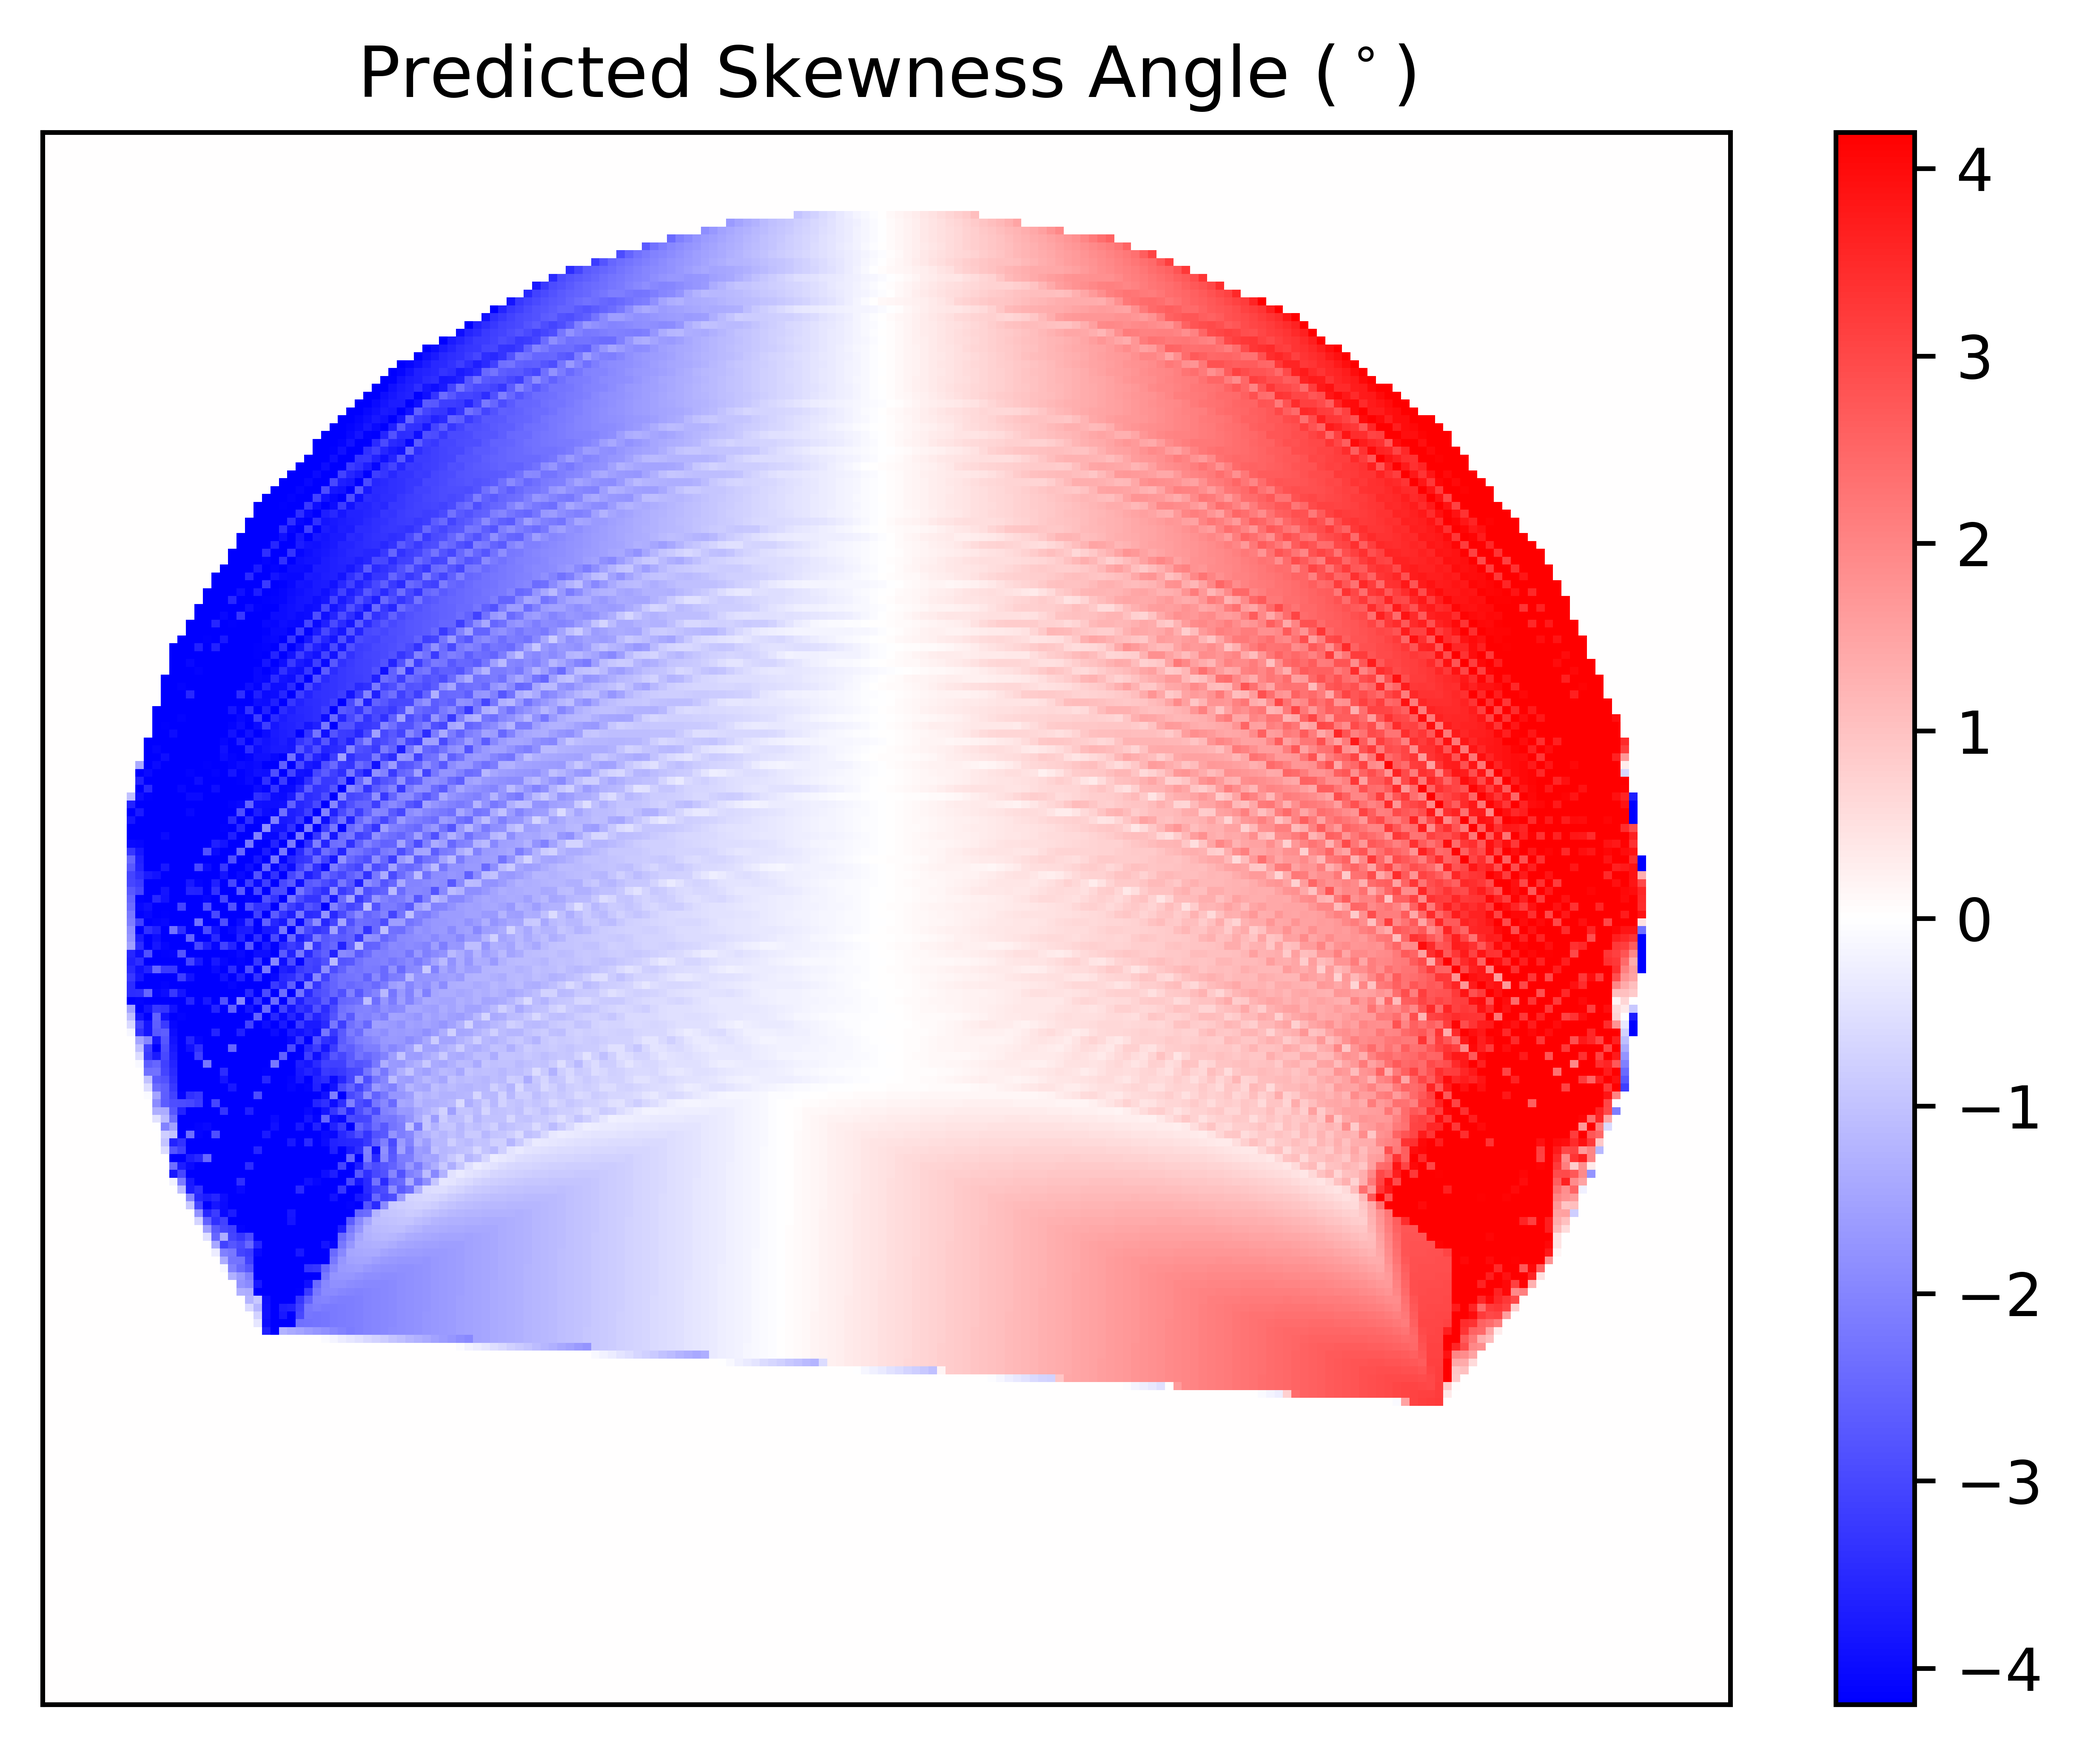
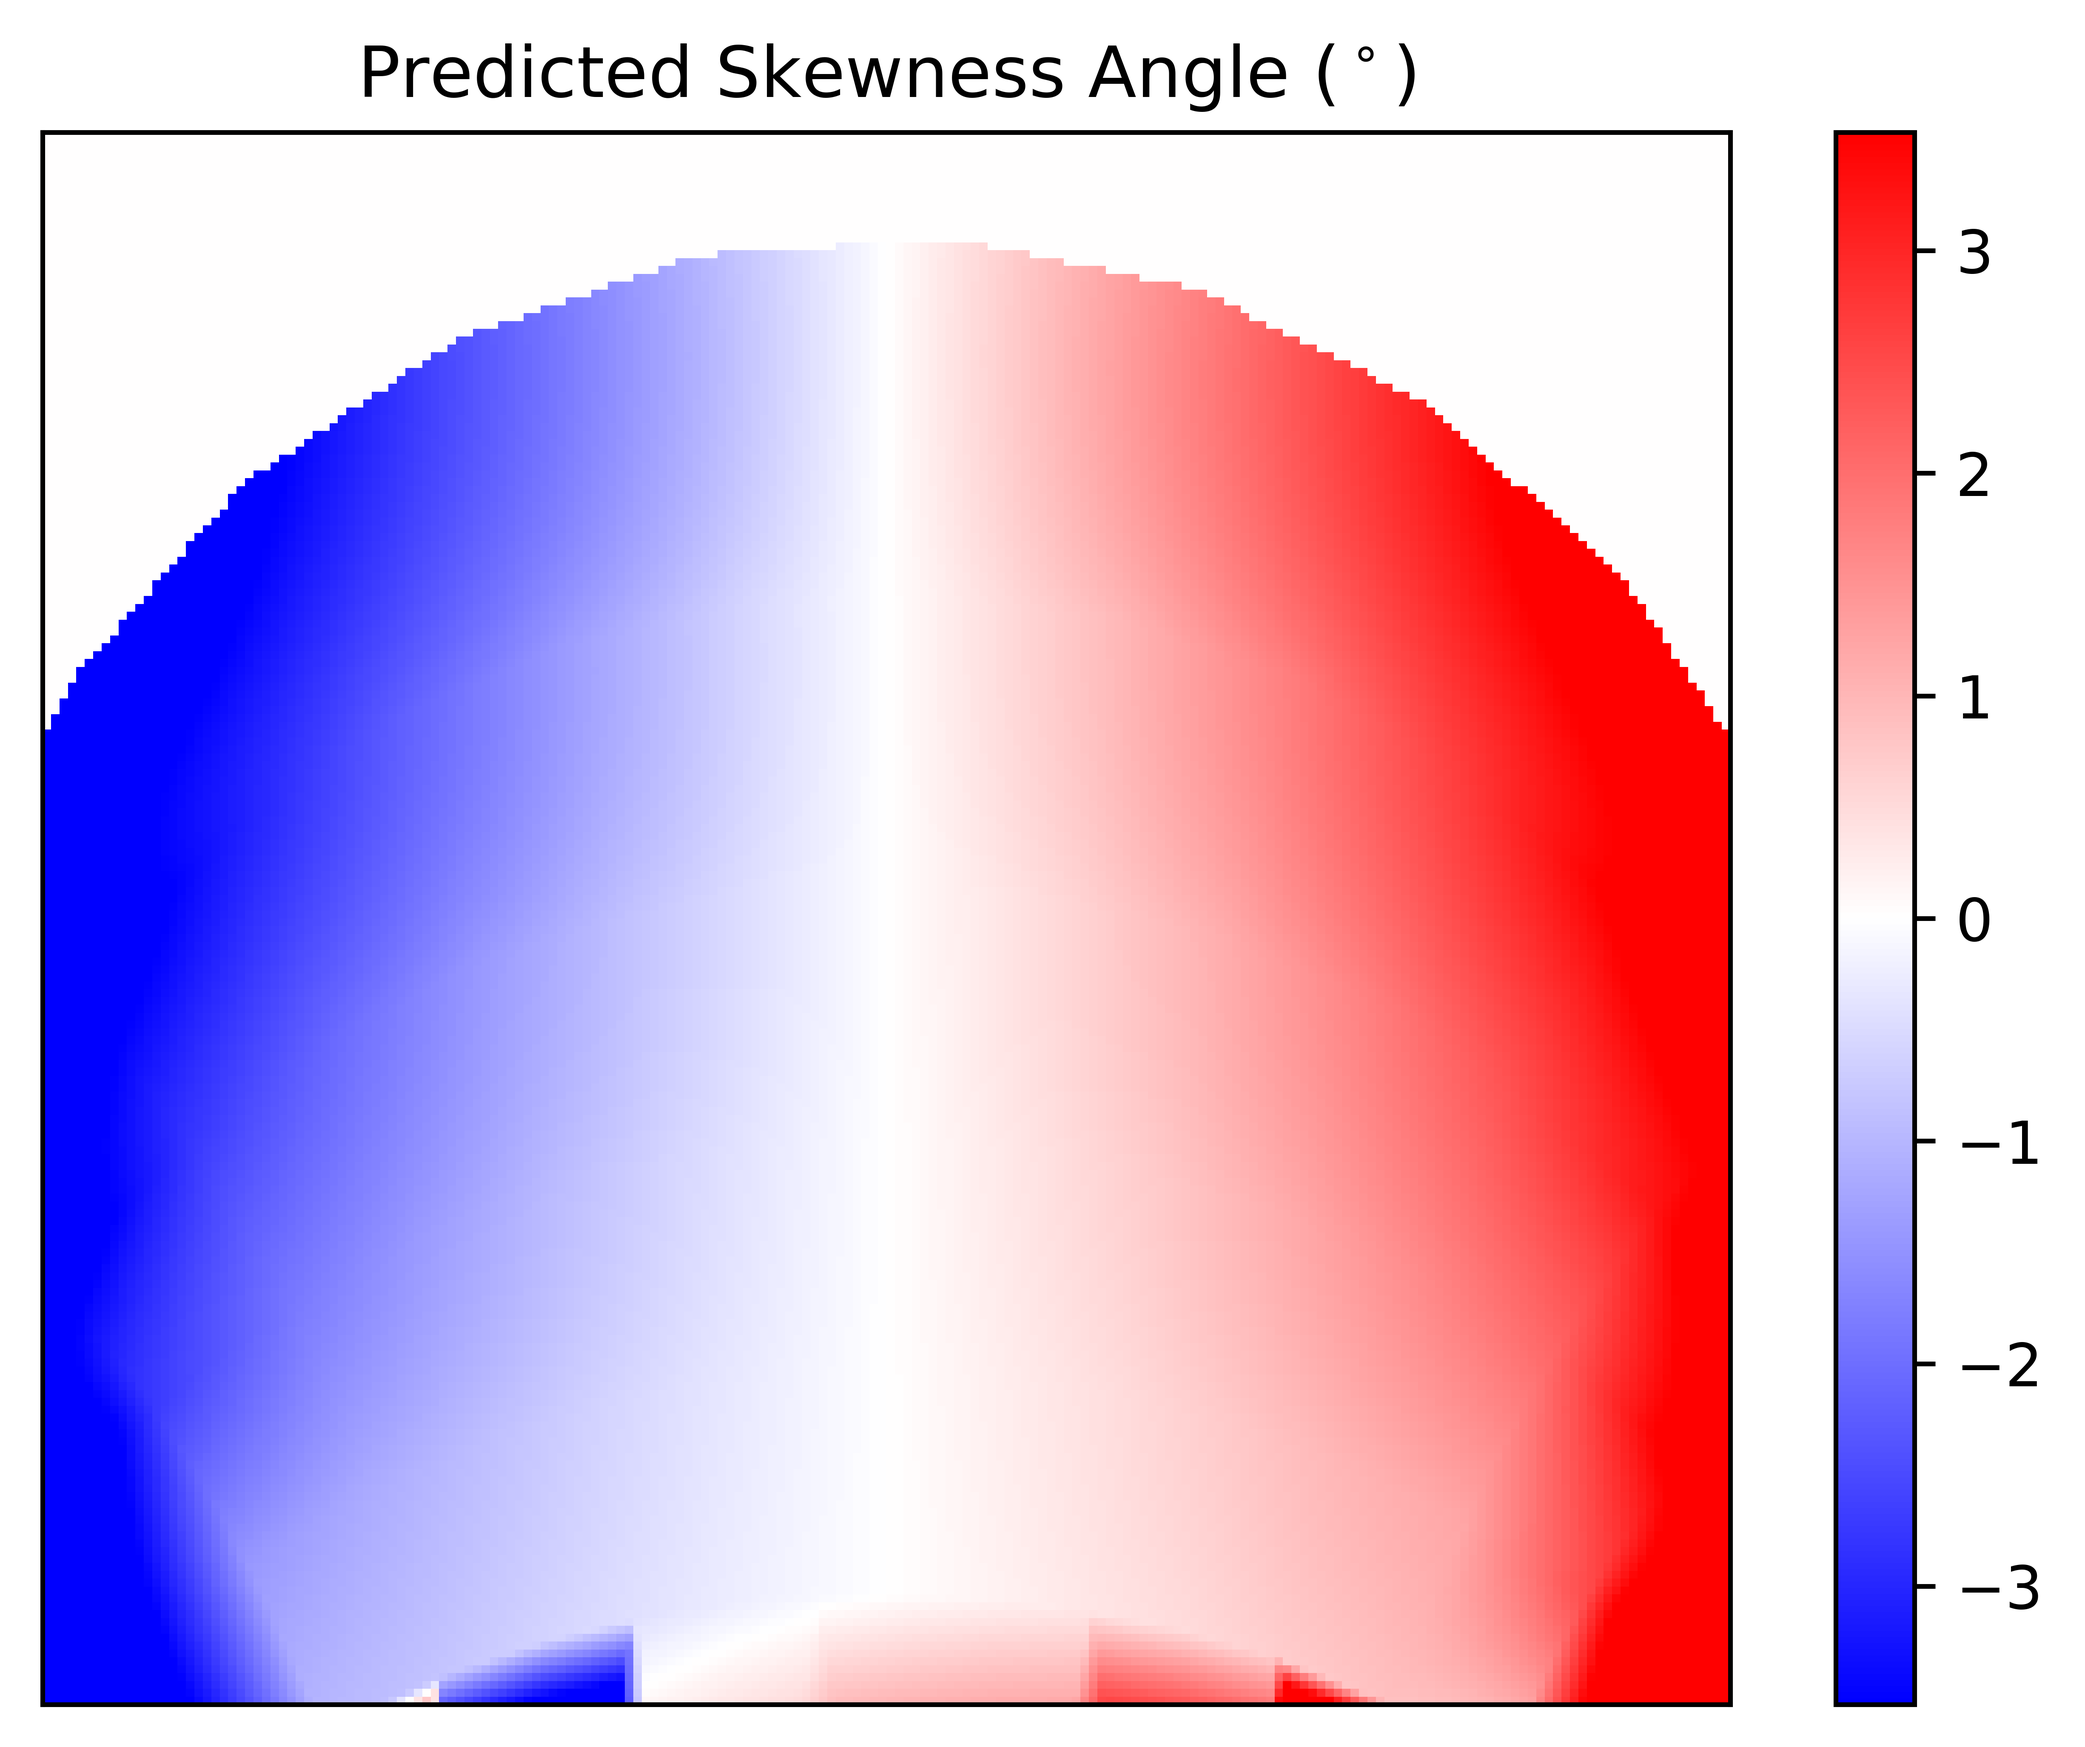
alright we have working chirality plots I found the issue

diff --git a/scripts/chirality_map_smoothed.py b/scripts/chirality_map_smoothed.py
@@ -78,7 +78,7 @@ def resample_all_curves(all_xs, all_ys, all_thetas, num=50):
         new_thetas.append(thr)
     return new_xs, new_ys, new_thetas
 
-all_xs, all_ys, all_thetas = resample_all_curves(all_xs, all_ys, all_thetas, num=20)
+# all_xs, all_ys, all_thetas = resample_all_curves(all_xs, all_ys, all_thetas, num=50)
 
 def get_bounds(xs, ys, extra_factor = .1):
     # Run the main guy to do main guy things
@@ -94,7 +94,7 @@ def get_bounds(xs, ys, extra_factor = .1):
 
     return ((min_x, max_x), (min_y, max_y))
 
-def to_spline_set(ts, xs, ys):
+def to_spline_set_old(ts, xs, ys):
     # Let's get the number we want
     N = len(xs[0])
 
@@ -105,16 +105,129 @@ def to_spline_set(ts, xs, ys):
         x_vals = [xs[l][ind] for l in range(len(ts))]
         y_vals = [ys[l][ind] for l in range(len(ts))]
 
-        # x_spl = CubicSpline(ts, x_vals, bc_type='natural')
-        # y_spl = CubicSpline(ts, y_vals, bc_type='natural')
+        x_spl = CubicSpline(ts, x_vals, bc_type='natural')
+        y_spl = CubicSpline(ts, y_vals, bc_type='natural')
         
         # Let's make these splines a bit more robust
-        x_spl = Akima1DInterpolator(ts, x_vals)
-        y_spl = Akima1DInterpolator(ts, y_vals)
+        # x_spl = Akima1DInterpolator(ts, x_vals)
+        # y_spl = Akima1DInterpolator(ts, y_vals)
 
         x_splines.append(x_spl), y_splines.append(y_spl)
 
     return x_splines, y_splines
+
+def to_spline_set(ts, xs, ys, n_intervals=5, smooth_fallback=1e-6):
+    """
+    Drop-in replacement for to_spline_set() that does *spline regression* instead of
+    exact interpolation, to stabilize x', y', x'', y''.
+
+    Fits cubic least-squares splines with a small fixed knot set:
+        scipy.interpolate.LSQUnivariateSpline
+
+    Parameters
+    ----------
+    ts : (T,) array-like
+        Times (must be strictly increasing for the spline routines).
+    xs, ys : list length T, each entry array-like length N
+        Your data layout: xs[t_ind][s_ind], ys[t_ind][s_ind].
+    n_intervals : int
+        Number of knot intervals (default 5). This creates (n_intervals-1) interior knots.
+        Example: n_intervals=5 -> 4 interior knots -> pretty strong smoothing.
+    smooth_fallback : float
+        If LSQUnivariateSpline fails (e.g. not enough points), fallback to
+        UnivariateSpline with smoothing `s = smooth_fallback * T * var(data)`.
+
+    Returns
+    -------
+    x_splines, y_splines : lists of spline objects length N
+        Each spline supports calls like:
+            x_splines[s_ind](t)      # value
+            x_splines[s_ind](t, 1)   # first derivative
+            x_splines[s_ind](t, 2)   # second derivative
+    """
+    from scipy.interpolate import LSQUnivariateSpline, UnivariateSpline
+
+    t = np.asarray(ts, dtype=float)
+    if t.ndim != 1:
+        raise ValueError("ts must be 1D")
+    T = t.size
+    if len(xs) != T or len(ys) != T:
+        raise ValueError("xs and ys must have outer length equal to len(ts)")
+    if T < 4:
+        raise ValueError("Need at least 4 time samples for a cubic spline regression")
+
+    # Ensure strictly increasing t
+    if not np.all(np.diff(t) > 0):
+        # If you have duplicates, this will *not* be well-defined; remove duplicates deterministically.
+        # Keep first occurrence of each unique time.
+        uniq_t, uniq_idx = np.unique(t, return_index=True)
+        uniq_idx = np.sort(uniq_idx)
+        t = t[uniq_idx]
+        xs = [xs[i] for i in uniq_idx]
+        ys = [ys[i] for i in uniq_idx]
+        T = t.size
+        if T < 4 or not np.all(np.diff(t) > 0):
+            raise ValueError("ts must be strictly increasing after removing duplicates")
+
+    # number of curves
+    N = len(xs[0])
+    for l in range(T):
+        if len(xs[l]) != N or len(ys[l]) != N:
+            raise ValueError("Each xs[l], ys[l] must have the same length (number of s_ind)")
+
+    # Build interior knots: n_intervals => (n_intervals-1) interior knots
+    if n_intervals < 2:
+        raise ValueError("n_intervals must be >= 2")
+
+    n_int = n_intervals - 1
+    # Need at least k+1 + n_int points for LSQUnivariateSpline with k=3 (rule of thumb)
+    # Practically, require T > n_int + 3
+    use_lsq = (T > n_int + 3) and (n_int > 0)
+
+    if use_lsq:
+        # place interior knots evenly in time, excluding endpoints
+        # (avoid exact endpoints — LSQUnivariateSpline requires strictly inside)
+        knots = np.linspace(t[0], t[-1], n_intervals + 1)[1:-1]
+        # If time range is tiny, this can produce duplicates; guard:
+        knots = np.unique(knots)
+        if knots.size == 0:
+            use_lsq = False
+    else:
+        knots = np.array([], dtype=float)
+
+    x_splines = []
+    y_splines = []
+
+    for s_ind in range(N):
+        x_vals = np.asarray([xs[l][s_ind] for l in range(T)], dtype=float)
+        y_vals = np.asarray([ys[l][s_ind] for l in range(T)], dtype=float)
+
+        if use_lsq:
+            try:
+                xspl = LSQUnivariateSpline(t, x_vals, t=knots, k=3)
+            except Exception:
+                # fallback: smoothing spline with tiny smoothing scaled to variance
+                s = float(smooth_fallback) * T * (np.var(x_vals) + 1e-12)
+                xspl = UnivariateSpline(t, x_vals, k=3, s=s)
+
+            try:
+                yspl = LSQUnivariateSpline(t, y_vals, t=knots, k=3)
+            except Exception:
+                s = float(smooth_fallback) * T * (np.var(y_vals) + 1e-12)
+                yspl = UnivariateSpline(t, y_vals, k=3, s=s)
+        else:
+            # If you don't have enough points for LSQ spline w/ knots, use smoothing spline.
+            s = float(smooth_fallback) * T * (np.var(x_vals) + 1e-12)
+            xspl = UnivariateSpline(t, x_vals, k=3, s=s)
+
+            s = float(smooth_fallback) * T * (np.var(y_vals) + 1e-12)
+            yspl = UnivariateSpline(t, y_vals, k=3, s=s)
+
+        x_splines.append(xspl)
+        y_splines.append(yspl)
+
+    return x_splines, y_splines
+
 
 def compute_alpha(x_spl, y_spl, t, k_alpha=K_ALPHA):
     xt, yt = x_spl(t, 1), y_spl(t, 1)
@@ -130,7 +243,7 @@ def make_alpha_interpolator(ts, xs, ys, k_alpha=K_ALPHA):
 
     # Now let's make the guy to interpolate
     all_in, all_out = [], []
-    t_eval = np.linspace(ts[0], ts[-1], num=len(ts)) # TODO: FIX
+    t_eval = np.linspace(ts[0], ts[-1], num=3*len(ts)) # TODO: FIX
     for s_ind in range(ns):
         for t in t_eval: # Could do anything here
             x_val, y_val = x_splines[s_ind](t), y_splines[s_ind](t)
@@ -298,13 +411,15 @@ def make_alpha_plot(ts, xs, ys, k_alpha=K_ALPHA):
 
         # Make a mesh grid so we can do this
         (x_min,x_max), (y_min, y_max) = get_bounds(xs, ys)
+        # TODO: FIX
+        (x_min, x_max), (y_min, y_max) = (-2.5, 2.5), (-1, 3.25)
         x = np.linspace(x_min, x_max, 200)
         y = np.linspace(y_min, y_max, 200)
         X, Y = np.meshgrid(x, y)
 
         # Interpoalte this mamajama
         Z = np.rad2deg(alpha_interp(X, Y))
-        Z = smooth_grid_field(Z, x, y, method="helmholtz", length_scale=0.025)  # pick a physical length
+        # Z = smooth_grid_field(Z, x, y, method="helmholtz", length_scale=0.025)  # pick a physical length
 
         # Get the colorscale we want
         z_flat = Z.flatten()
@@ -321,9 +436,91 @@ def make_alpha_plot(ts, xs, ys, k_alpha=K_ALPHA):
         plt.gcf().set_dpi(1000)
         plt.savefig(f'../out/chirality_prediction.png', dpi=1000, bbox_inches='tight')
 
+def plot_xy_spline_fits(
+    ts,
+    xs,
+    ys,
+    s_inds=None,
+    dense=400,
+    show=True,
+    savepath=None,
+    max_curves=50,
+    marker_size=10,
+    line_width=1.5,
+):
+    """Plot x(t) and y(t) sample points and their fitted cubic splines.
+
+    This is meant as a quick sanity-check that `to_spline_set()` is fitting what you
+    think it is fitting.
+
+    Notes about your data layout
+    ----------------------------
+    In this file, `xs` and `ys` are lists over time index `l` (same length as `ts`).
+    Each entry `xs[l]` / `ys[l]` is a list/array over spatial index `s_ind`.
+    For a fixed `s_ind`, the sample points are:
+        t -> x_vals[l] = xs[l][s_ind]
+        t -> y_vals[l] = ys[l][s_ind]
+    """
+    import numpy as np
+    from matplotlib import pyplot as plt
+
+    ts = np.asarray(ts, dtype=float)
+    if len(xs) != len(ts) or len(ys) != len(ts):
+        raise ValueError("xs and ys must have the same outer length as ts")
+    if len(ts) < 2:
+        raise ValueError("Need at least 2 time points to plot spline fits")
+
+    # Fit splines
+    x_splines, y_splines = to_spline_set(ts, xs, ys)
+    N = len(x_splines)
+
+    # Choose which curves to show
+    if s_inds is None:
+        if N <= max_curves:
+            s_inds = list(range(N))
+        else:
+            s_inds = np.linspace(0, N - 1, num=max_curves, dtype=int).tolist()
+    else:
+        s_inds = list(s_inds)
+
+    t_dense = np.linspace(ts[0], ts[-1], int(dense))
+
+    fig, (ax_x, ax_y) = plt.subplots(2, 1, sharex=True, figsize=(10, 7))
+
+    for s_ind in s_inds:
+        if s_ind < 0 or s_ind >= N:
+            continue
+
+        x_vals = np.array([xs[l][s_ind] for l in range(len(ts))], dtype=float)
+        y_vals = np.array([ys[l][s_ind] for l in range(len(ts))], dtype=float)
+
+        # sample points
+        # ax_x.scatter(ts, x_vals, s=marker_size)
+        # ax_y.scatter(ts, y_vals, s=marker_size)
+
+        # spline curves
+        ax_x.plot(t_dense, x_splines[s_ind](t_dense, 2), linewidth=line_width)
+        ax_y.plot(t_dense, y_splines[s_ind](t_dense, 2), linewidth=line_width)
+
+    ax_x.set_ylabel("x(t)")
+    ax_y.set_ylabel("y(t)")
+    ax_y.set_xlabel("t")
+    ax_x.set_title("Sample points (markers) vs. CubicSpline fits (lines)")
+
+    fig.tight_layout()
+    if savepath is not None:
+        fig.savefig(savepath, bbox_inches="tight")
+    if show:
+        plt.show()
+
+    return fig, (ax_x, ax_y)
+
+
 
 def main():
     print('Starting to produce chirality plot...')
+    # s_inds = list(range(1, 25, 5))
+    # plot_xy_spline_fits(all_ts, all_xs, all_ys, s_inds, savepath=None, show=True)
     make_alpha_plot(all_ts, all_xs, all_ys)
     print('Chirality Plot Complete!')
 
